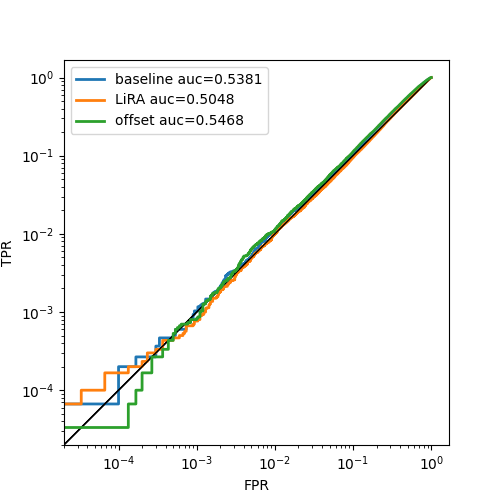
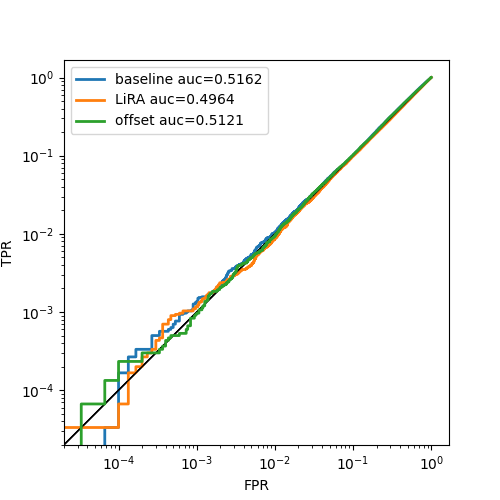
advanced attach enabled for pytorch

Changed region(s): [[0.12, 0.15, 0.87, 0.9], [0.39, 0.18, 0.48, 0.27], [0.48, 0.15, 0.54, 0.18]]

diff --git a/attacks/mia/advanced.py b/attacks/mia/advanced.py
@@ -1,70 +1,70 @@
-from tensorflow_privacy.privacy.privacy_tests.membership_inference_attack import advanced_mia as amia
-from tensorflow_privacy.privacy.privacy_tests.membership_inference_attack import plotting as mia_plotting
 from tensorflow_privacy.privacy.privacy_tests.membership_inference_attack import membership_inference_attack as mia
 from tensorflow_privacy.privacy.privacy_tests.membership_inference_attack.data_structures import AttackInputData
+from tensorflow_privacy.privacy.privacy_tests.membership_inference_attack import plotting as mia_plotting
+from tensorflow_privacy.privacy.privacy_tests.membership_inference_attack import advanced_mia as amia
 import matplotlib.pyplot as plt
-from attacks.config import aconf
-from _utils.helper import get_stat_and_loss_aug, plot_curve_with_area
-from _utils.data import AdvAttackData
-import numpy as np
 import tensorflow as tf
+import numpy as np
 import functools
+import torch
 import os
 import gc
 
+from _utils.helper import get_stat_and_loss_aug, plot_curve_with_area
+from _utils.data import AdvAttackData
+from attacks.config import aconf
+from target.tf_target import train
+from target.torch_target import torch_train
 
-def train_shadows(model, tdata):
+seed = 123
+np.random.seed(seed)
+
+
+def get_shadow_stats(model, tdata, is_torch=False):
     x = tdata.x_concat
     y = tdata.y_concat
-
-    seed = 123
-    np.random.seed(seed)
-
-    sample_weight = None
     n = x.shape[0]
+    sample_weight = None
+    ext = 'h5'
+    in_indices, stat, losses = [], [], []
+    os.makedirs(aconf['shpath'], exist_ok=True)
 
-    in_indices = []
-    stat = []
-    losses = []
+    if is_torch:
+        ext = 'pt'
 
     for i in range(aconf['n_shadows']):
-
-        if aconf['shpath']:
-            model_path = os.path.join(
-                aconf['shpath'],
-                f'model{i}_e{aconf["epochs"]}_sd{seed}.h5'
-            )
-
         in_indices.append(np.random.binomial(1, 0.5, n).astype(bool))
+        model_path = os.path.join(
+            aconf['shpath'],  f'model{i}_e{aconf["epochs"]}_sd{seed}.{ext}'
+        )
 
-        if aconf['shpath'] and os.path.exists(model_path):
-            model(x[:1])
-            model.load_weights(model_path)
+        if os.path.exists(model_path):
+            if is_torch:
+                model.load_state_dict(torch.load(model_path))
+            else:
+                model(x[:1])
+                model.load_weights(model_path)
             print(f'Loaded model #{i} with {in_indices[-1].sum()} examples.')
 
         else:
-            os.makedirs(aconf['shpath'], exist_ok=True)
-            model.compile(
-                optimizer=tf.keras.optimizers.SGD(aconf['lr'], momentum=0.9),
-                loss=tf.keras.losses.SparseCategoricalCrossentropy(
-                    from_logits=True),
-                metrics=['accuracy'])
-            model.fit(
-                x[in_indices[-1]],
-                y[in_indices[-1]],
-                validation_data=(x[~in_indices[-1]], y[~in_indices[-1]]),
-                epochs=aconf['epochs'],
-                batch_size=aconf['batch_size'],
-                verbose=2)
-            if aconf['shpath']:
-                model.save_weights(model_path)
+            tdata.train_data = x[in_indices[-1]]
+            tdata.train_labels = y[in_indices[-1]]
+            tdata.test_data = x[~in_indices[-1]]
+            tdata.test_labels = y[~in_indices[-1]]
+
+            if is_torch:
+                torch_train(model, tdata, model_path)
+            else:
+                train(model_path, tdata=tdata, model=model)
             print(f'Trained model #{i} with {in_indices[-1].sum()} examples.')
 
-        s, l = get_stat_and_loss_aug(model, x, y, sample_weight)
+        s, l = get_stat_and_loss_aug(
+            model, x, y, sample_weight, is_torch=is_torch)
+
         stat.append(s)
         losses.append(l)
-        tf.keras.backend.clear_session()
-        gc.collect()
+        # tf.keras.backend.clear_session()
+        # gc.collect()
 
     return AdvAttackData(
         stat=stat,
@@ -75,7 +75,7 @@ def train_shadows(model, tdata):
     )
 
 
-def run_advanced_attack(attack_data):
+def run_advanced_attack(attack_data, is_torch):
     for idx in range(aconf['n_shadows']):
         print(f'\nTarget model is #{idx}')
         stat_target = attack_data.stat[idx]

diff --git a/target/torch_target.py b/target/torch_target.py
@@ -1,16 +1,35 @@
-from torch.utils.data import DataLoader
-from torchvision.datasets import CIFAR10
 import torchvision.transforms as transforms
+from torchvision.datasets import CIFAR10
+from torch.utils.data import DataLoader
 from tqdm import tqdm
 import numpy as np
 import torch
 
+from attacks.config import aconf
 from _utils.data import TData
 
 device = torch.device("cuda:0" if torch.cuda.is_available() else "cpu")
 
 
-def load_torch_cifar10(batch_size=64):
+def ds_to_numpy(trainset, testset):
+    x_train = trainset.data
+    x_test = testset.data
+    y_train = trainset.targets
+    y_test = testset.targets
+    x = np.concatenate([x_train, x_test]).astype(np.float32) / 255
+    y = np.concatenate([y_train, y_test]).astype(np.int32).squeeze()
+
+    return x, y
+
+
+def group_data(data, label):
+    gr_data = []
+    for i, j in zip(data, label):
+        gr_data.append([i, j])
+    return gr_data
+
+
+def load_torch_cifar10():
     transform = transforms.Compose(
         [
             transforms.Resize((224, 224)),
@@ -24,25 +43,59 @@ def load_torch_cifar10(batch_size=64):
     testset = CIFAR10(root='./data', train=False,
                       download=True, transform=transform)
 
-    train_loader = DataLoader(
-        trainset, batch_size=batch_size, shuffle=True, num_workers=2)
-
-    test_loader = DataLoader(testset, batch_size=batch_size, num_workers=2)
+    x, y = ds_to_numpy(trainset, testset)
 
     return TData(
-        train_data=train_loader,
-        test_data=test_loader
+        train_data=trainset.data,
+        test_data=testset.data,
+        train_labels=trainset.targets,
+        test_labels=testset.targets,
+        x_concat=x,
+        y_concat=y
     )
 
 
-def torch_predict(model, data_loader):
+def torch_predict(model, dataset):
     logits = []
-    labels = []
-    for x, y in tqdm(data_loader):
-        inp = x.to(device)
-        pred = model(inp)
+    data_loader = DataLoader(dataset, batch_size=aconf['batch_size'])
+    model.eval()
+    for x in tqdm(data_loader):
+        x = x.to(device)
+        if x.shape[0] > 3:
+            x = torch.transpose(x, 1, -1)
+        pred = model(x)
+        pred = pred.cpu().detach().numpy().copy()
+        logits.append(pred)
+    logits = np.array(logits)
+    return np.concatenate(logits.copy(), axis=0)
 
-        logits.append(pred.cpu().detach())
-        labels.append(y)
 
-    return np.concatenate(logits, axis=0), np.concatenate(labels, axis=0)
+def torch_train(model, dataset, checkpoint_path=None):
+    criterion = torch.nn.CrossEntropyLoss()
+    optimizer = torch.optim.Adam(model.parameters(), lr=aconf['lr'])
+
+    train_loader = DataLoader(group_data(
+        dataset.train_data, dataset.train_labels), batch_size=aconf['batch_size'], shuffle=True)
+
+    for _ in range(aconf['epochs']):
+        train_loss = 0
+        train_acc = 0
+        for x, y in tqdm(train_loader):
+            x = torch.transpose(x, 1, -1).to(device)
+            y = y.type(torch.LongTensor).to(device)
+            optimizer.zero_grad()
+            pred = model(x)
+            loss = criterion(pred, y)
+            _, preds = torch.max(pred, 1)
+
+            loss.backward()
+            optimizer.step()
+
+            train_loss += loss.item() * x.size(0)
+            train_acc += torch.sum(preds == y.data)
+
+        print('train acc: {:.4f}, loss: {:.4f}'.format(
+            train_acc / len(train_loader.dataset), train_loss / len(train_loader.dataset)))
+
+    if checkpoint_path is not None:
+        torch.save(model.state_dict(), checkpoint_path)

diff --git a/_utils/helper.py b/_utils/helper.py
@@ -5,7 +5,6 @@ from tensorflow.keras.utils import to_categorical
 from typing import Optional
 import tensorflow as tf
 import numpy as np
-import torch
 
 from target.torch_target import torch_predict
 
@@ -17,9 +16,9 @@ def get_attack_inp(model, tdata, is_torch):
         logits_train = model.predict(tdata.train_data)
         logits_test = model.predict(tdata.test_data)
     else:
-        logits_train, tdata.train_labels = torch_predict(
+        logits_train = torch_predict(
             model, tdata.train_data)
-        logits_test, tdata.test_labels = torch_predict(model, tdata.test_data)
+        logits_test = torch_predict(model, tdata.test_data)
 
     print('Apply softmax to get probabilities from logits...')
     prob_train = tf.nn.softmax(logits_train, axis=-1)
@@ -52,17 +51,25 @@ def get_stat_and_loss_aug(model,
                           x,
                           y,
                           sample_weight: Optional[np.ndarray] = None,
-                          batch_size=64):
+                          batch_size=64,
+                          is_torch=False):
 
     losses, stat = [], []
+    print('Computing stats from loss and logits....')
     for data in [x, x[:, :, ::-1, :]]:
-        prob = amia.convert_logit_to_prob(
-            model.predict(data, batch_size=batch_size))
-        losses.append(utils.log_loss(y, prob, sample_weight=sample_weight))
+        if is_torch:
+            logits = torch_predict(model, data.copy())
+        else:
+            logits = model.predict(data, batch_size=batch_size)
+        prob = amia.convert_logit_to_prob(logits)
+        losses.append(utils.log_loss(
+            y, prob, sample_weight=sample_weight))
+
         stat.append(
             amia.calculate_statistic(
                 prob, y, sample_weight=sample_weight, is_logits=False))
-    return np.vstack(stat).transpose(1, 0), np.vstack(losses).transpose(1, 0)
+
+    return np.vstack(stat.copy()).transpose(1, 0), np.vstack(losses.copy()).transpose(1, 0)
 
 
 def plot_curve_with_area(x, y, xlabel, ylabel, ax, label, title=None):

diff --git a/target/tf_target.py b/target/tf_target.py
@@ -1,12 +1,13 @@
+from tensorflow.keras.layers import Dense, GlobalAveragePooling2D
 from tensorflow.keras.applications import DenseNet121
 from tensorflow.keras.models import Model
-from tensorflow.keras.layers import Dense, GlobalAveragePooling2D
 import tensorflow as tf
 import numpy as np
 
+from attacks.config import aconf
 from _utils.data import TData
 
-"""Test file just to prepare TF model"""
+"""Test file preparing TF model"""
 
 
 def process_images(image, label):
@@ -18,6 +19,7 @@ def process_images(image, label):
 def load_tf_cifar10():
     (train_data, train_labels), (test_data,
                                  test_labels) = tf.keras.datasets.cifar10.load_data()
+
     x = np.concatenate([train_data, test_data]).astype(np.float32) / 255
     y = np.concatenate([train_labels, test_labels]).astype(np.int32).squeeze()
 
@@ -63,16 +65,25 @@ def densenet(num_classes):
     return model
 
 
-def train(checkpoint_path):
-    tdata = load_tf_cifar10()
-    model = densenet(num_classes=10)
+def train(checkpoint_path, tdata=None, model=None):
+    optimizer = tf.keras.optimizers.SGD(aconf['lr'], momentum=0.9)
 
-    optimizer = tf.keras.optimizers.Adam()
+    if tdata is None:
+        tdata = load_tf_cifar10()
+
+    if model is None:
+        model = densenet(num_classes=10)
+        optimizer = tf.keras.optimizers.Adam()
+
     loss = tf.keras.losses.SparseCategoricalCrossentropy(from_logits=True)
 
     model.compile(optimizer=optimizer, loss=loss, metrics=['accuracy'])
     model.fit(tdata.train_data,
               validation_data=tdata.test_data,
-              batch_size=64,
-              epochs=20)
-    model.save(checkpoint_path)
+              batch_size=aconf['batch_size'],
+              epochs=aconf['epochs'])
+
+    if model == None:
+        model.save(checkpoint_path)
+    else:
+        model.save_weights(checkpoint_path)

diff --git a/attack_runner.py b/attack_runner.py
@@ -1,5 +1,5 @@
-import os
 import torch
+import os
 
 
 def runner(args):
@@ -19,7 +19,7 @@ def runner(args):
 
     from _utils.helper import get_attack_inp
     from attacks.mia.custom import run_custom_attacks
-    from attacks.mia.advanced import train_shadows, run_advanced_attack
+    from attacks.mia.advanced import get_shadow_stats, run_advanced_attack
     from target.tf_target import load_tf_cifar10
     from target.torch_target import load_torch_cifar10
 
@@ -33,7 +33,7 @@ def runner(args):
         run_custom_attacks(attack_input)
 
     elif attack == 'advanced':
-        adata = train_shadows(model, tdata)
+        adata = get_shadow_stats(model, tdata, is_torch)
         run_advanced_attack(adata, is_torch)
 
     else:

diff --git a/attacks/config.py b/attacks/config.py
@@ -1,6 +1,6 @@
 aconf = {
-    'lr': 0.02,
-    'batch_size': 128,
+    'lr': 0.01,
+    'batch_size': 64,
     'epochs': 2,
     'n_shadows': 2,
     'shpath': './attacks/shadows'
